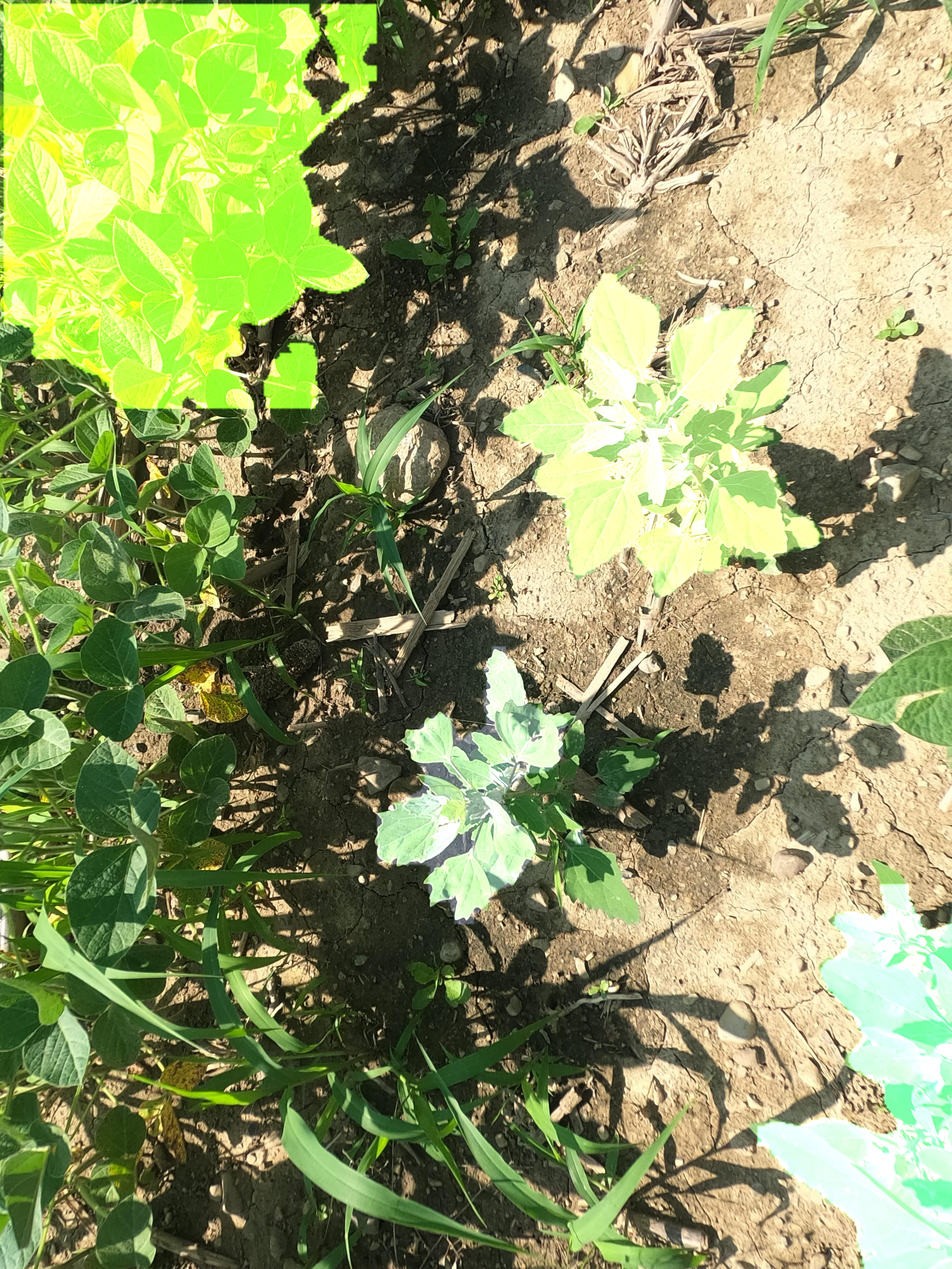
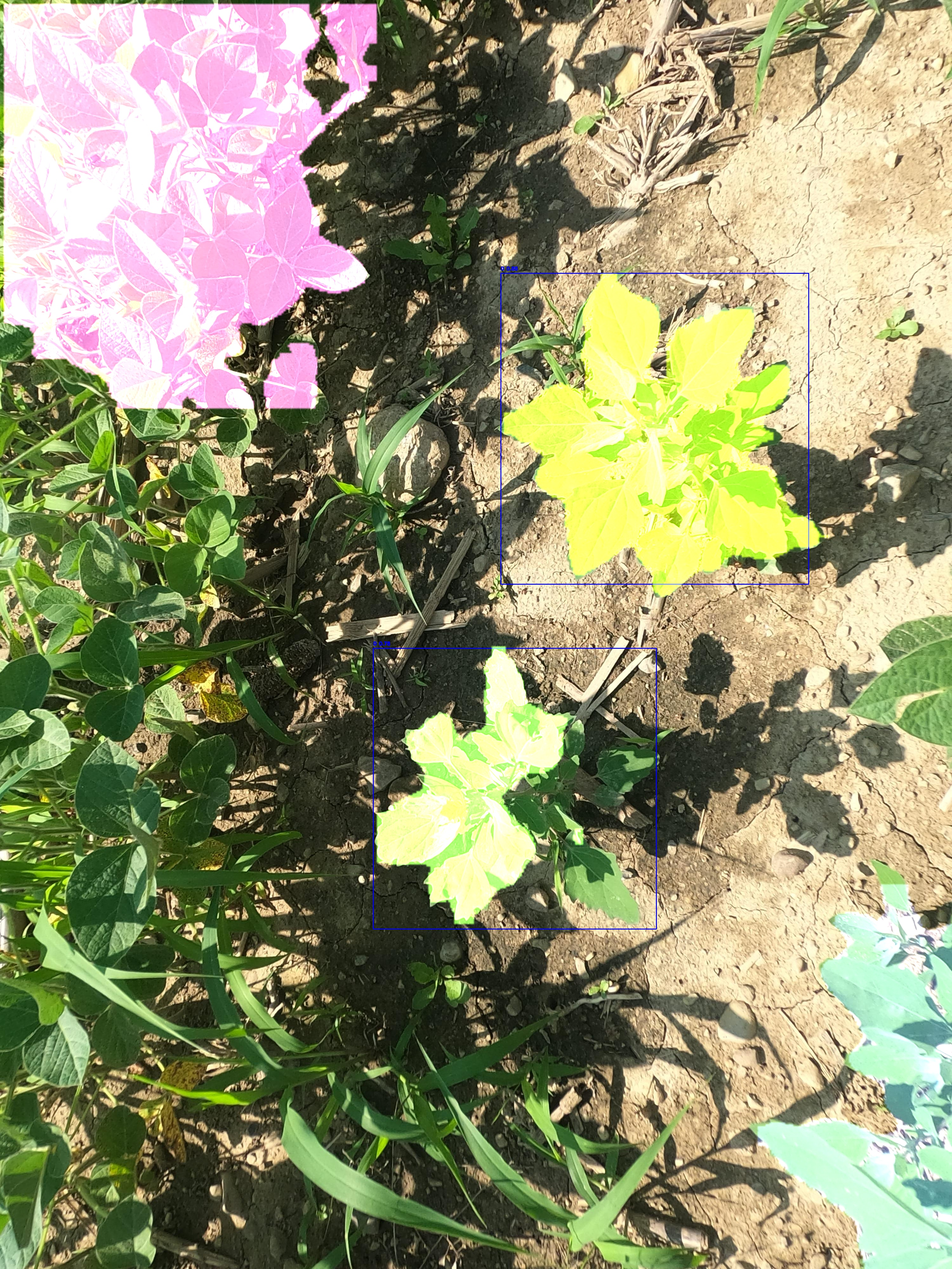
fix: scaling for correct drawing

diff --git a/client-gui/src/app/_components/canvas/Canvas.tsx b/client-gui/src/app/_components/canvas/Canvas.tsx
@@ -7,6 +7,7 @@ import { getRelativePointerPosition, zoomLayer, zoomStage } from './utils';
 
 let id = 1;
 
+//This SCALE is for sizes change between image-canvas, has nothing to do with cv2 ! 
 const SCALE = 0.175; 
 
 interface CanvasProps {
@@ -134,30 +135,32 @@ const Canvas = ({ stageRef, imageLayerRef, regionLayerRef, borderLayerRef, focus
 
     regionLayer.on("mousedown", () => { 
       if (!spacePressed) {
-              toggleDrawing();
-      const point = getRelativePointerPosition(stage, regionLayer);
-      const region = {
-        id: id++,
-        color: Konva.Util.getRandomColor(),
-        points: [point],
-      };
-      setRegions([...regionsRef.current, region]);
+        toggleDrawing();
+        const point = getRelativePointerPosition(stage, regionLayer);
+        // Multiply x and y by SCALE
+        const scaledPoint = { x: point.x, y: point.y  };
+        const region = {
+          id: id++,
+          color: Konva.Util.getRandomColor(),
+          points: [scaledPoint],
+        };
+        setRegions([...regionsRef.current, region]);
       }
+    });
 
-    }); 
- 
     regionLayer.on("mousemove", () => {
       if (!spacePressed) {
-              if (!isDrawingRef.current) return;
-      const point = getRelativePointerPosition(stage, regionLayer);
-      const prevRegions = regionsRef.current;
-      if (!prevRegions.length) return;
-      const lastRegion = { ...prevRegions[prevRegions.length - 1] };
-      lastRegion.points = [...lastRegion.points, point];
-      const newRegions = [...prevRegions.slice(0, -1), lastRegion];
-      setRegions(newRegions);
+        if (!isDrawingRef.current) return;
+        const point = getRelativePointerPosition(stage, regionLayer);
+        // Multiply x and y by SCALE
+        const scaledPoint = { x: point.x , y: point.y };
+        const prevRegions = regionsRef.current;
+        if (!prevRegions.length) return;
+        const lastRegion = { ...prevRegions[prevRegions.length - 1] };
+        lastRegion.points = [...lastRegion.points, scaledPoint];
+        const newRegions = [...prevRegions.slice(0, -1), lastRegion];
+        setRegions(newRegions);
       }
-
     });
 
     regionLayer.on("mouseup", () => {
@@ -233,7 +236,7 @@ const Canvas = ({ stageRef, imageLayerRef, regionLayerRef, borderLayerRef, focus
     regions.forEach((region) => { 
       // console.log(region)
       const line = new Konva.Line({
-        points: region.points.flatMap((p) => [p.x * SCALE, p.y * SCALE]),
+        points: region.points.flatMap((p) => [p.x , p.y ]),
         stroke: region.color,
         strokeWidth: 0.5,
         closed: true,
@@ -263,10 +266,10 @@ const Canvas = ({ stageRef, imageLayerRef, regionLayerRef, borderLayerRef, focus
         strokeWidth: 2,
         // closed: true,
         // fill: border.color + "33",
-        x: border.x * SCALE,
-        y: border.y * SCALE, 
-        width: border.width * SCALE, 
-        height: border.height * SCALE, 
+        x: border.x ,
+        y: border.y , 
+        width: border.width , 
+        height: border.height , 
         name: "border",
       });
       borderLayer.add(rect);

diff --git a/client-gui/src/app/_components/settings.tsx b/client-gui/src/app/_components/settings.tsx
@@ -8,6 +8,8 @@ import useCanvasStore, {Region, Border} from '../_store/canvas';
 
 import "./style.css"
 
+//This SCALE is for sizes change between image-canvas, has nothing to do with cv2 ! 
+const SCALE = 0.175; 
 
 const Settings = ({ onChange }: { onChange: (ops: string[]) => void }) => {
   const runOps = useModelStore((s) => s.runOps);
@@ -67,7 +69,10 @@ const Settings = ({ onChange }: { onChange: (ops: string[]) => void }) => {
           
           if (Array.isArray(contour)) {
             try {
-              const newPoints = contour.map(([x, y]: [number, number]) => ({ x, y }));
+              const newPoints = contour.map(([x, y]: [number, number]) => ({
+                x: x * SCALE,
+                y: y * SCALE
+              }));
               const newRegion: Region = {
               id: `region-${level}-${count}`,
               points: newPoints,
@@ -105,10 +110,10 @@ const Settings = ({ onChange }: { onChange: (ops: string[]) => void }) => {
         if (Array.isArray(box)) {
           const newBorder: Border = {
             id: `border-${l}`,
-            x: box[0],
-            y: box[1], 
-            width: box[2] - box[0], 
-            height: box[3] - box[1], 
+            x: box[0] * SCALE,
+            y: box[1] * SCALE, 
+            width: (box[2] - box[0]) * SCALE, 
+            height:(box[3] - box[1]) * SCALE, 
             color: "#1900ffff" 
           };
           // console.log("new region", newRegion);

diff --git a/client-gui/src/app/_components/canvas/wrap.tsx b/client-gui/src/app/_components/canvas/wrap.tsx
@@ -67,7 +67,7 @@ const Wrap =  () => {
     width: 300, // or your desired fixed width
     minWidth: 0,
     padding: "32px 18px 32px 32px",
-    background: "#f0f4ff",
+    background: "#ebeffaff",
     borderRight: "2px solid #bcd",
     boxShadow: "2px 0 8px rgba(25,118,210,0.04)",
     display: "flex",

diff --git a/server/API/autorun.py b/server/API/autorun.py
@@ -24,25 +24,6 @@ from model import models, get_models
 
 model_router = APIRouter()
 
-# models = {
-#     "detect": YOLO(Path(__file__).parent.parent / "models" / "detection" / "best.pt"),
-#     "segment": YOLO(Path(__file__).parent.parent / "models" / "segment" / "best.pt"),
-#     "classify": YOLO(Path(__file__).parent.parent / "models" / "classify" / "best.pt"),
-# }
-
-# # Add model class names
-# models["classify"].model.names = {
-#     0: "ziziphus mauritiana",
-#     1: "lantana camara",
-#     2: "parkinsonia aculeata",
-#     3: "parthenium hysterophorus",
-#     4: "vachellia nilotica",
-#     5: "cryptostegia grandiflora",
-#     6: "chromolaena odorata",
-#     7: "gutierrezia sarothrae",
-#     8: "none",
-# }
-
 models = get_models()
 
 
